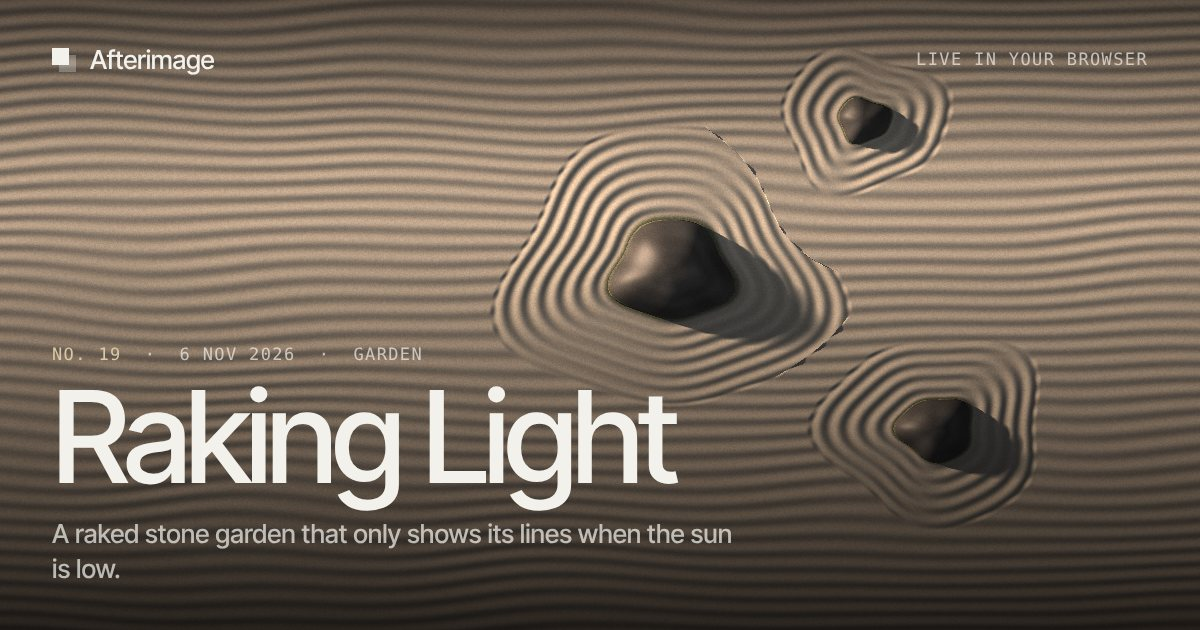
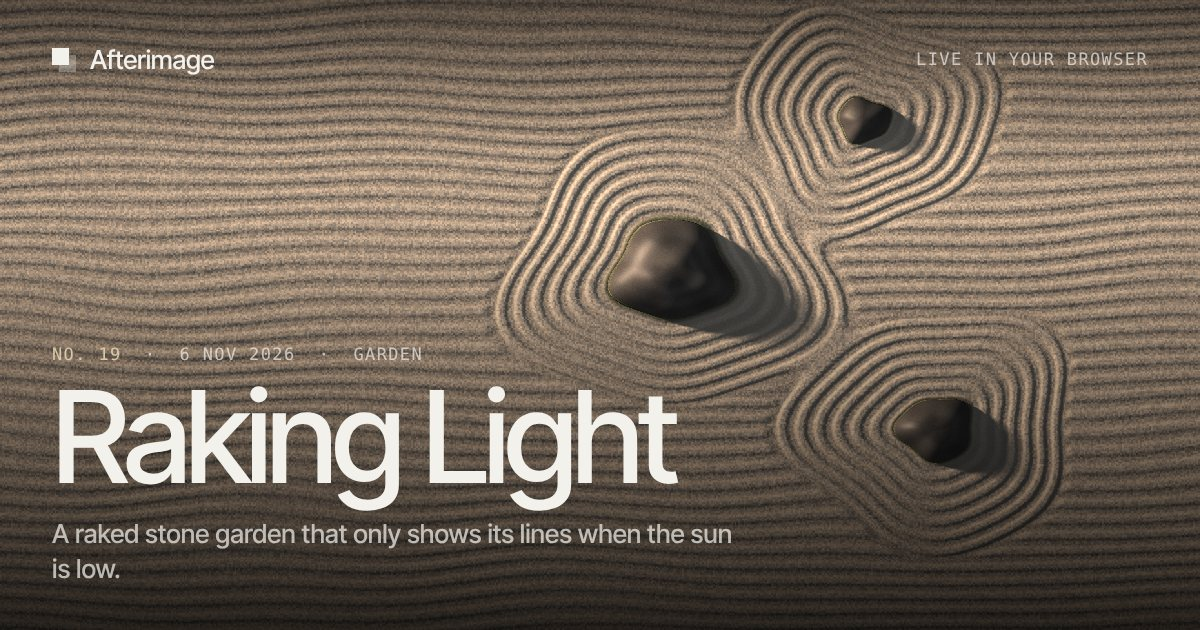
Raking Light: clean ring borders, merged rings, sand grain
The ring zones were cut out of the straight rows, so each border was a
hard, aliased seam and neighbouring zones met at a straight line. Stone
distances are now merged with a smooth minimum, rings are a whole number of
rake widths so the last one sits on the border, and the straight rows fade
out just before it, the way a rake lifts. The gravel gets per-grain normal
tilt and varying cut depth so it reads as sand, the stones get weathered
lumps, shadows are softer, and the held sun no longer sinks quite so low.

Claude-Session: https://claude.ai/code/session_01NZcfqGoJgcsBkSb6SakvRS

diff --git a/src/effects/index.ts b/src/effects/index.ts
@@ -889,7 +889,7 @@ const ENTRIES: readonly Entry[] = [
     summary:
       "Three stones sit in raked gravel, ringed by the lines a rake drew around them. Nothing in the garden moves except the sun: hold the pointer near the middle and it climbs overhead until the garden goes pale and flat, push it out to an edge and it sinks, raking long shadows across every groove. Rake sets the spacing of the lines, Depth how deep they are cut, and Drift how fast the sun circles when you let go.",
     explanation: [
-      { title: "Rake the gravel", body: "The ground is a height field of rounded ridges: straight rows across the garden, bending into rings around each stone." },
+      { title: "Rake the gravel", body: "The ground is a height field of rounded ridges: rings drawn round the stones, merging where stones sit close, and straight rows that stop just short of the outermost ring." },
       { title: "Place the stones", body: "Each stone is a lumpy dome standing far taller than the ridges, with a thin collar of moss where it meets the gravel." },
       { title: "Bring the sun down", body: "Every pixel looks toward the sun across the ground, and whatever rises in the way puts it in shadow. The lower the sun, the longer those shadows reach." },
     ],
@@ -899,7 +899,7 @@ const ENTRIES: readonly Entry[] = [
       interaction: "The pointer is the sun. Near the centre it climbs overhead and the lines disappear; out toward an edge it sinks, and lines that run toward the light vanish while the ones across it leap out.",
       headline: "The open gravel on the left, where only the straight rows run and no stone sits. It flattens to an even pale field whenever the sun is high.",
       nearest: "Windwall, the other piece about light on a fixed surface. Windwall moves its fins and keeps the lamp still; here the garden never moves and the light is all you change.",
-      risks: "Even rows could read as a stripe texture, so they wander and break into rings around the stones. A shadow march could get slow, so it takes sixteen growing steps over a cheap height field and stops as soon as a ray clears the tallest stone.",
+      risks: "Even rows could read as a stripe texture, so they wander, vary in depth and give way to rings around the stones, and the sand has grain so it never reads as plastic. A shadow march could get slow, so it takes sixteen growing steps over a cheap height field and stops as soon as a ray clears the tallest stone.",
     },
     technical: {
       insight: "Raking light is how conservators find hidden texture: a light skimming at a low angle turns heights too small to see into long shadows.",
@@ -915,7 +915,7 @@ const ENTRIES: readonly Entry[] = [
         "eased light steering",
       ],
       notes:
-        "The garden is a pure function of position: straight rows are a raised cosine of y, warped by one low-frequency simplex lookup, and inside a zone around each stone they switch to a raised cosine of distance from that stone's wobbly outline, so the rings follow its shape. Stones are domes about 0.85 of their radius tall, some thirty times the height of the ridges, so at a low sun their shadows run long across the rings. Normals come from two extra height samples. The shadow marches toward the sun over the height field with steps that grow by a third each time, softened by the ray's clearance over distance, and it stops once the ray climbs above the tallest stone. The sun itself is steered in TypeScript: it circles low on its own, follows the pointer while it is active, takes its elevation from how far out the pointer is, and eases back to the orbit over a few seconds. Exposure follows elevation, so noon reads as pale rather than white.",
+        "The garden is a pure function of position. Each stone's wobbly outline gives a distance field, and the three are merged with a smooth minimum so neighbouring rings flow into one shape instead of meeting at a seam. Rings are ridges of that distance, a whole number of rake widths out, so the last ring lands exactly on the border; the straight rows, a ridge of y warped by one low-frequency simplex lookup, fade out just before it, the way a rake lifts, so the two patterns never cut across each other. Stones are lumpy domes some thirty times the height of the ridges, and each few pixels of gravel tilts its normal at random so the sand has grain. Normals come from two extra height samples. The shadow marches toward the sun over the height field with steps that grow by a third each time, softened by the ray's clearance over distance, and stops once the ray climbs above the tallest stone. The sun is steered in TypeScript: it circles low on its own, follows the pointer while it is active, takes its elevation from how far out the pointer is, and eases back to the orbit over a few seconds. Exposure follows elevation, so noon reads as pale rather than white.",
       source: "src/effects/raking",
     },
     accent: "#d9c9a8",

diff --git a/src/effects/raking/pipeline.ts b/src/effects/raking/pipeline.ts
@@ -40,7 +40,7 @@ export function createRaking(setup: EffectSetup, wgsl: Wgsl): EffectInstance {
       const vx = (inputs.mouse[0] - 0.5) * aspect
       const vy = 0.5 - inputs.mouse[1]
       const reach = Math.min(1, Math.hypot(vx, vy) / 0.62)
-      const held = fromAngles(Math.atan2(vy, vx), 1.25 - 1.13 * reach * reach * (3 - 2 * reach))
+      const held = fromAngles(Math.atan2(vy, vx), 1.25 - 1.03 * reach * reach * (3 - 2 * reach))
 
       // Hold on to the pointer for a while after it stops, then let go slowly.
       hold = Math.max(inputs.pointer > 0.02 ? 1 : 0, hold - dt * 0.35)
